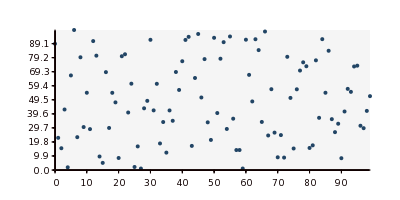
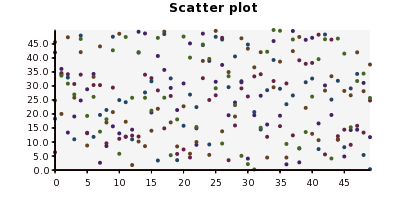
Set the color of the title before drawing it (add a color option for the title). Also rework the scatterplot example to use several datasets. Fixes #10

diff --git a/examples/scatterchart.py b/examples/scatterchart.py
@@ -1,4 +1,4 @@
-# Copyright (c) 2007-2008 by Lorenzo Gil Sanchez <lorenzo.gil.sanchez@gmail.com>
+# Copyright(c) 2007-2009 by Lorenzo Gil Sanchez <lorenzo.gil.sanchez@gmail.com>
 #
 # This file is part of PyCha.
 #
@@ -22,21 +22,26 @@ import cairo
 
 import pycha.scatter
 
+
 def scatterplotChart(output):
     surface = cairo.ImageSurface(cairo.FORMAT_ARGB32, 400, 200)
 
-
+    top = 50
     dataSet = (
-        ('points', [(i, random.random() * 100.0) for i in range(100)]),
+        ('points 1', [(i, random.random() * float(top)) for i in range(top)]),
+        ('points 2', [(i, random.random() * float(top)) for i in range(top)]),
+        ('points 3', [(i, random.random() * float(top)) for i in range(top)]),
+        ('points 4', [(i, random.random() * float(top)) for i in range(top)]),
+        ('points 5', [(i, random.random() * float(top)) for i in range(top)]),
         )
 
     options = {
         'background': {
             'color': '#eeeeff',
-            'lineColor': '#444444'
+            'lineColor': '#444444',
         },
         'colorScheme': {
-            'name': 'gradient',
+            'name': 'rainbow',
             'args': {
                 'initialColor': 'blue',
             },
@@ -45,8 +50,9 @@ def scatterplotChart(output):
             'hide': True,
         },
         'padding': {
-            'left': 55
-        }
+            'left': 55,
+        },
+        'title': u'Scatter plot',
     }
     chart = pycha.scatter.ScatterplotChart(surface, options)
 

diff --git a/pycha/chart.py b/pycha/chart.py
@@ -534,6 +534,7 @@ class Chart(object):
                                 cairo.FONT_SLANT_NORMAL,
                                 cairo.FONT_WEIGHT_BOLD)
             cx.set_font_size(self.options.titleFontSize)
+            cx.set_source_rgb(*hex2rgb(self.options.titleColor))
 
             title = unicode(self.options.title)
             extents = cx.text_extents(title)
@@ -724,6 +725,7 @@ DEFAULT_OPTIONS = Option(
             ),
     ),
     title=None,
+    titleColor='#000000',
     titleFont='Tahoma',
     titleFontSize=12,
 )
